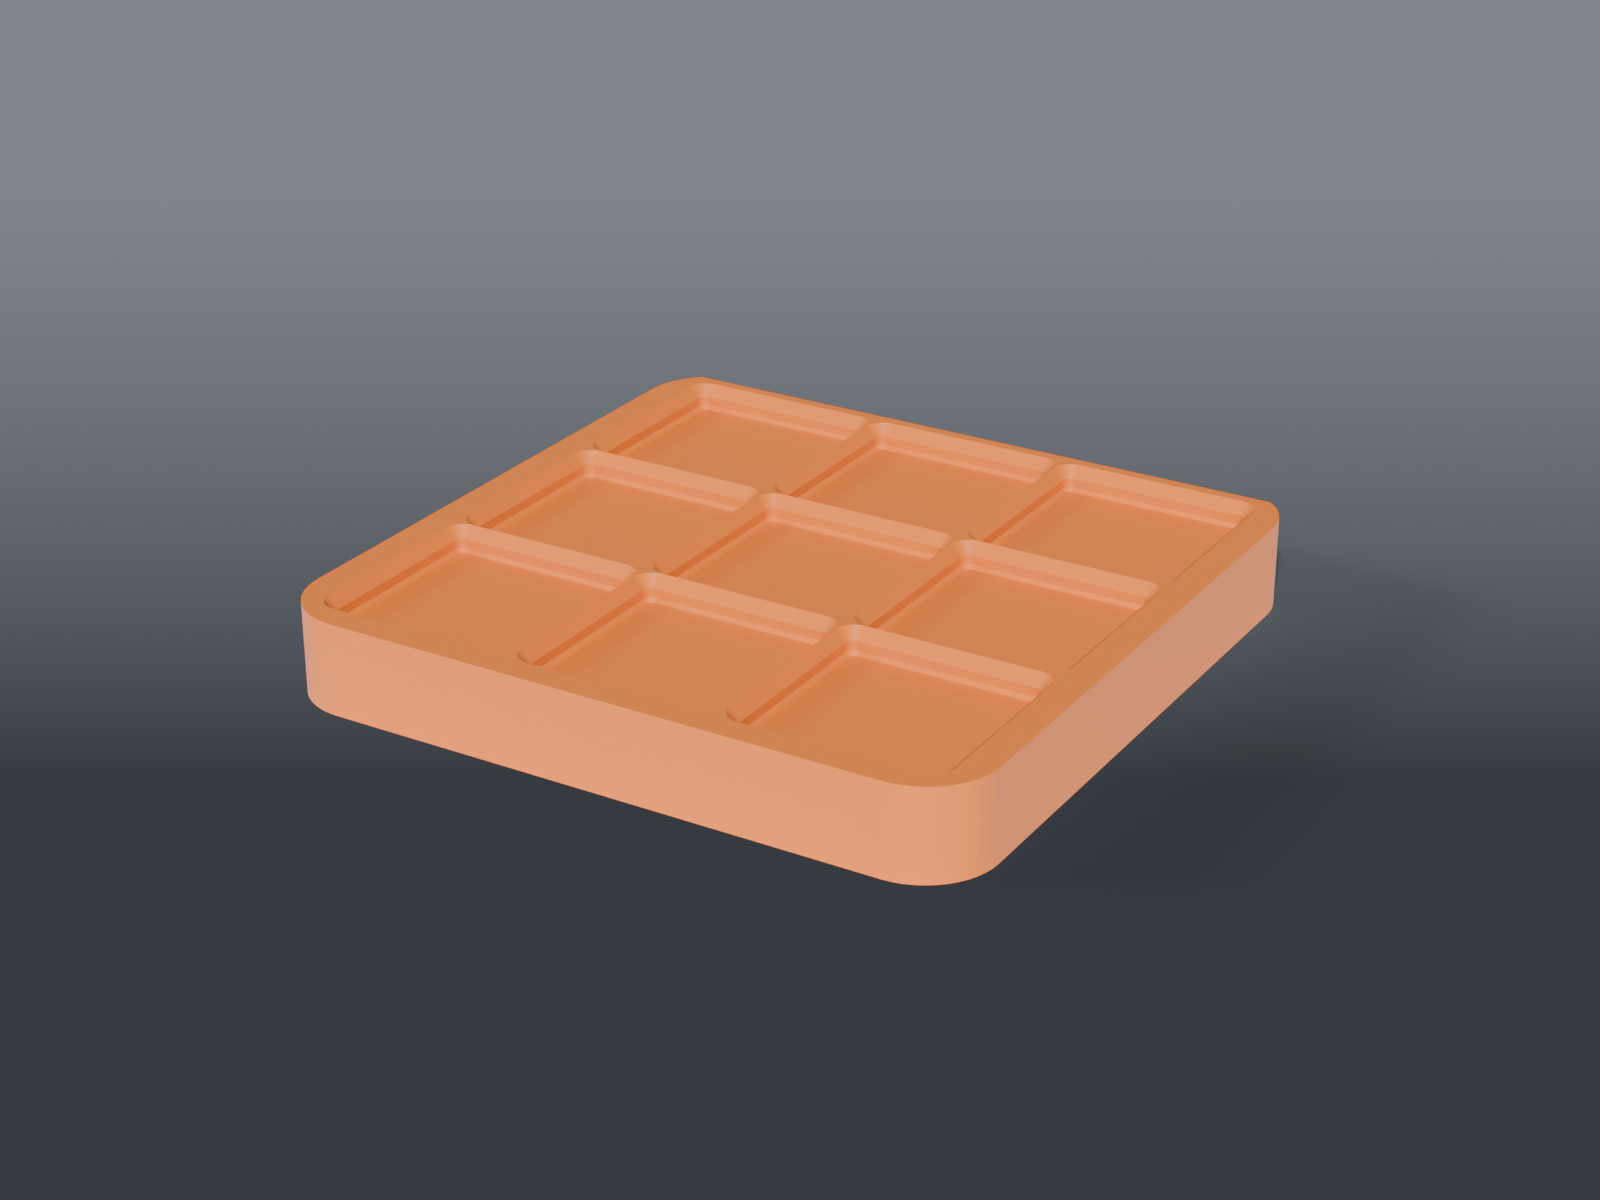
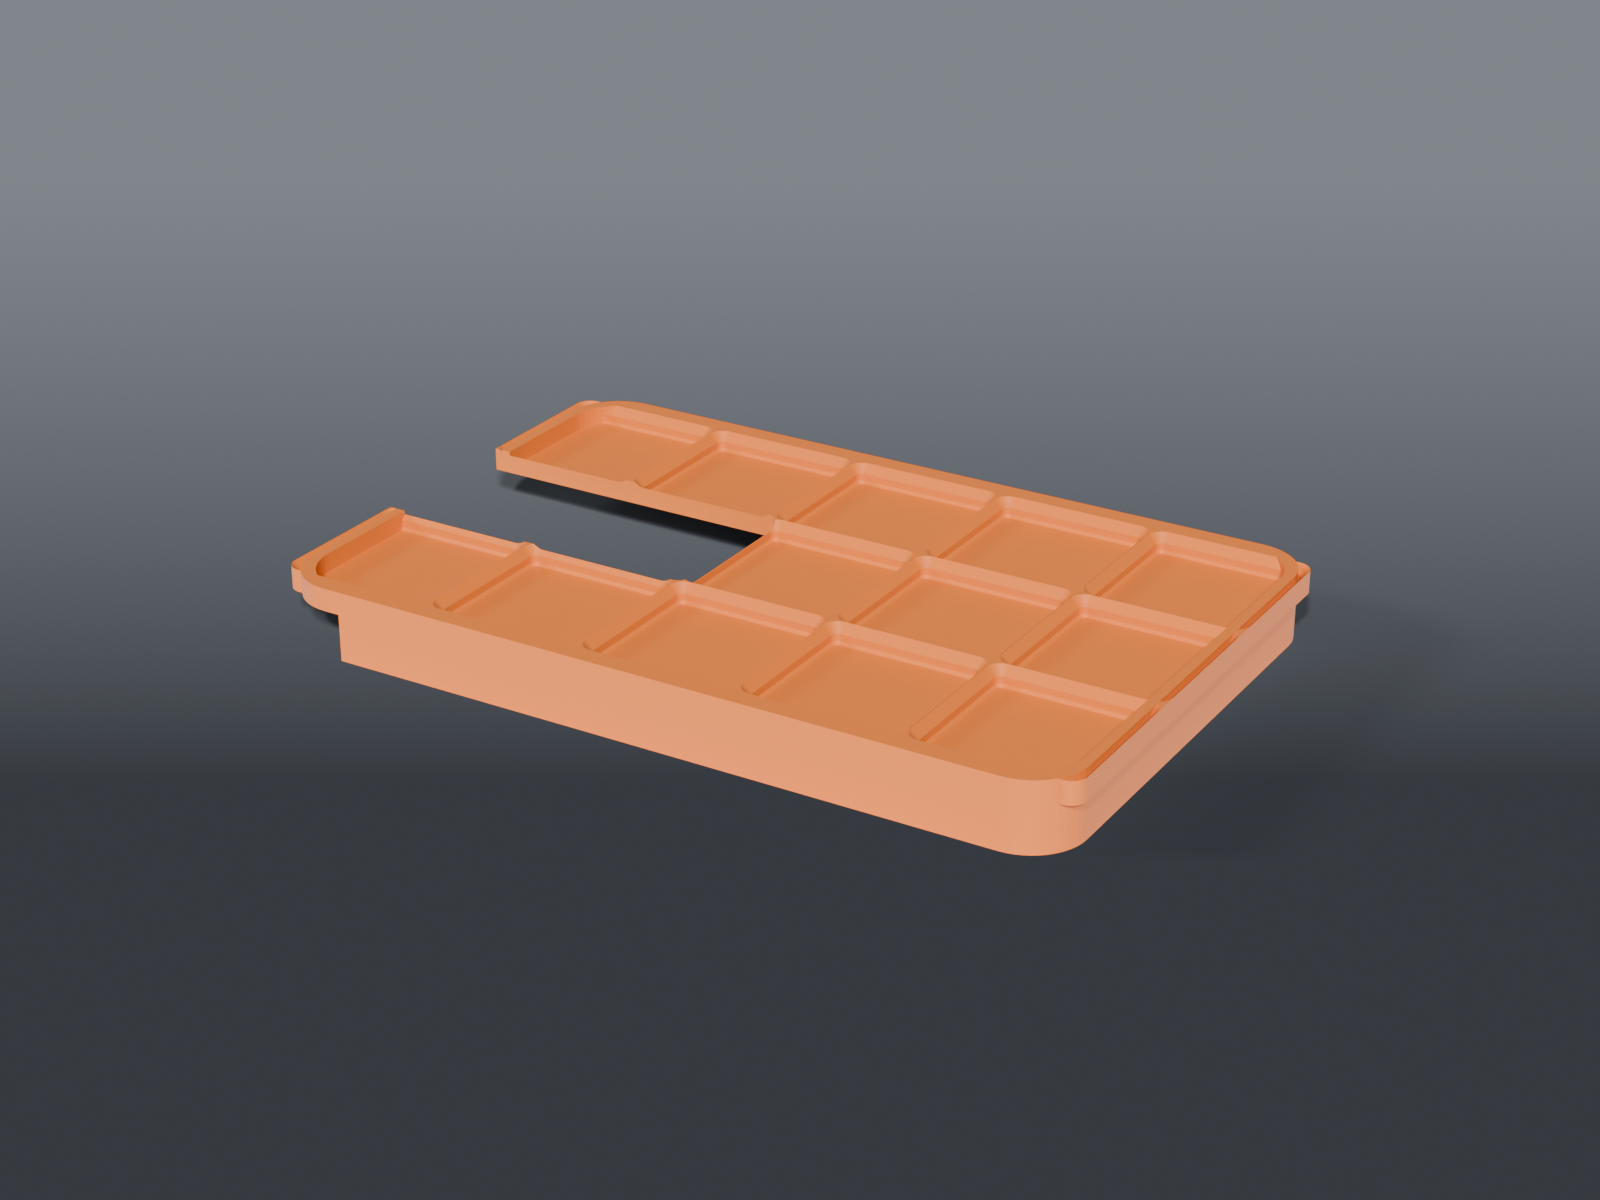
feat(scope-baseplate): rebuild as 5x3 wrapping the pole, 13 usable cells

Changed region(s): [[0.1562, 0.3083, 0.8438, 0.74], [0.4688, 0.4933, 0.5625, 0.555]]

diff --git a/scope-baseplate/README.md b/scope-baseplate/README.md
@@ -2,7 +2,7 @@
 
 ![Microscope base platform baseplate](preview.png)
 
-A **3×3 Gridfinity baseplate** that drops onto the raised platform of a microscope boom stand's weighted base, reclaiming that dead footprint for storage — mainly a home for the Kimwipe box that already lives there. A skirt wraps the platform on three sides so it can't slide; the back is open where the boom pole comes up.
+A **5×3 Gridfinity baseplate** that wraps the raised plateau on a microscope boom stand's weighted base, clears the boom pole, and turns that dead footprint into **13 usable cells**. Mainly a home for the Kimwipe box that already lives there, plus everything that used to get set down beside it.
 
 > **Not the oscilloscope.** That one is [`bench-instrument-risers/`](../bench-instrument-risers/). This is the *microscope* boom base.
 
@@ -10,29 +10,72 @@ A **3×3 Gridfinity baseplate** that drops onto the raised platform of a microsc
 
 | Part | File | Size | Print |
 |---|---|---|---|
-| **Baseplate** | `scope_wipe_plate.scad` | 138 × 133.6 × 17.9 mm | ×1 — grid up, **with supports** |
-| **Corner gauge** | `coupons/scope_corner_gauge.scad` | 192 × 94 × 3 mm | optional — only if your platform differs |
+| **Baseplate** | `scope_wipe_plate.scad` | 210 × 136.38 × 17.85 mm | ×1 — **grid down**, no supports |
+| **Wrap coupon** | `coupons/scope_wrap_coupon.scad` | 21 × 136.38 × 17.85 mm | **print first** — ~9 g |
+| **Corner gauge** | `coupons/scope_corner_gauge.scad` | 192 × 94 × 3 mm | only if your stand differs |
 
-Shared dimensions live in `scope_plate_common.scad`.
+Dimensions live in `scope_plate_common.scad`.
+
+## This is a rebuild
+
+The previous version was a 3×3 with a skirt open at the back for the pole. Both premises were wrong, and the printed part was unusable:
+
+- **The pole doesn't rise at the back edge.** It rises from a boss about a fifth of the way in from one end. A plate that opens toward the back never reaches it.
+- **131.84 wasn't the plateau's length.** It was a short reading of the same plateau — 200.03 is the real number. The width was right both times; 130.54 and 130.18 are the same edge measured twice.
+
+Nothing carried over but the Gridfinity pitch and the gauged corner radius.
 
 ## How it mounts
 
-No hardware. The skirt drops 12 mm down the platform's 17.76 mm step and hugs it on the front and both sides; gravity and the three-sided wrap do the rest. The back is open so the boom pole passes through, and the plate stops exactly at the platform's back edge rather than growing into the pole.
+No hardware. The skirt drops 12 mm down the plateau's 17.76 mm step and hugs it on **both long sides and the far end**. **Slide it on lengthwise from the near end**, pole passing up through the slot, until the far wall bears against the plateau's far edge — that's the stop, and it lands within 0.6 mm of designed.
+
+The near end is open on purpose. Anything hanging down across it would hit the plateau's edge and stop the plate 12 mm short. It's also what lets you fit the plate without pulling the microscope head off the pole.
+
+The near end is the one **41.28 mm** from the boss centre, not the 158.75 mm end.
+
+## Why five rows, hanging over the ends
+
+5 × 42 = 210 against a 200.03 mm plateau, so the plate hangs about 5 mm past each end. That's deliberate:
+
+| Layout | Cells | Lost to the pole | Usable |
+|---|---|---|---|
+| 4 rows, slid to align the boss | 12 | 1 | 11 |
+| **5 rows, overhanging** | **15** | **2** | **13** |
+
+Four rows leaves 32 mm of slack, enough to slide a row *centre* onto the boss so it only eats one cell. Five rows can't — every offset in the valid range straddles a boundary, so the pole costs two. You still come out two cells ahead, and the 32 mm of dead border stops existing.
+
+**The overhang is plate, not bin.** Every socket stays a full 42 mm, so bins seat normally. What cantilevers is ~5 mm of plate per end, and the skirt hangs *inboard* of the tips, under the cells — so the wrap costs nothing.
+
+## Print the coupon first
+
+`coupons/scope_wrap_coupon.scad` is a 22 mm band sliced off the far end of the real plate — both side walls at true spacing, the far end wall, both corners. **~9 g against the plate's ~50 g.**
+
+It's an `intersection()` against the actual model, not a re-derivation, so it can't drift from the part it stands in for.
+
+| What it does | What it means |
+|---|---|
+| Drops on, sits flat, no rock | `FIT` and `CORNER` are right — print the plate |
+| Binds on the flats | `FIT` too small |
+| Flats seat, corners hang up | `CORNER` too big |
+| Rocks, or the wall bottoms out before the plate is flat | The step is shallower than 17.76 |
+| Rattles | `FIT` too large |
+
+One wall tells you nothing about the width — 0.6 mm a side over 130 mm is exactly what PETG shrink eats, and you need both walls at true spacing to see it. Print it in the same material as the plate for that reason.
+
+It doesn't test the pole slot or the boss position. Those live at the other end.
 
 ## Fit
 
-Measured on the actual stand:
-
 | Dimension | Value | How |
 |---|---|---|
-| Platform | 131.84 × 130.54 mm | calipers |
+| Plateau | 200.03 × 130.18 mm (7⅞ × 5⅛") | tape |
 | Step height | 17.76 mm | calipers — sets the 12 mm skirt depth |
 | Corner radius | ~15 mm | **gauged**, not calipered |
-| Kimwipe box | 119.60 × 122.86 mm | fits the 3×3 |
+| Boss ⌀ | 39.78 mm | calipers |
+| Boss from the far end | 158.75 mm (6¼") | tape |
+| Boss across the width | **assumed centred** | ⚠ see below |
 
-**The corner radius came from a gauge, because calipers can't read a fillet.** `coupons/scope_corner_gauge.scad` prints eight female corners from 6 to 20 mm; gauges 5 (14 mm) and 6 (16 mm) both seated.
-
-`CORNER` is set to **14, not the midpoint 15** — the error is asymmetric. A larger `CORNER` rounds the skirt opening more, making it *smaller* at the corners, so it binds:
+**`CORNER` is 14, not the midpoint 15** — the error is asymmetric. A larger `CORNER` rounds the skirt opening more, making it *smaller* at the corners, so it binds:
 
 | `CORNER` | real R=14 | R=15 | R=16 |
 |---|---|---|---|
@@ -40,11 +83,28 @@ Measured on the actual stand:
 | 15 | **binds** | clears | clears |
 | 16 | **binds** | **binds** | clears |
 
-Taking the smaller gauge that seated clears the whole measured range, so no finer gauge is needed.
+`FIT` is **1.2 mm**, deliberately not 0.4 — that's the clearance that failed on the OWON tray frame over a similar span. PETG shrinks ~0.5 mm across 130 mm, so an internal dimension prints undersize and binds.
 
-`FIT` is **1.2 mm**, deliberately not 0.4 — that's the same clearance over the same ~131 mm span that failed on the OWON tray frame. PETG shrinks ~0.5 mm across 131 mm, so an internal dimension prints undersize and binds.
+**The boss position across the width is an assumption.** The tape read 92.08 mm (3⅝") from one long edge, which is 27 mm off-centre on a 130.18 mm width and doesn't reconcile with the eyeball "it looks centred". Centred is the working assumption.
 
-If your stand differs, the knobs at the top of `scope_plate_common.scad` cover it: `PLAT_W`, `PLAT_D`, `STEP_H`, `CORNER`, `FIT`.
+If it's off-centre, the slot moves and two more cells die — 13 drops to 11. The width has only 4.18 mm of slack, so unlike the length there's no sliding out of it. Set `BOSS_Y` and everything else follows. To settle it: caliper from the boss edge to each side of the 5⅛" face, and see whether the two numbers match.
+
+## Why the pole slot is 44 mm wide
+
+Not fit — manifoldness. The cell pitch is 42 and the boss is 39.78, so any "natural" slot width lands within a millimetre of a socket boundary, and at the plate's top face adjacent socket openings meet exactly at ±21. A cut plane tangent to that line is the same class of bug that put 96 non-manifold edges in the thermal mount's counterbore.
+
+44 clears the whole middle column and passes 1 mm into the neighbouring sockets' outer taper — comfortably off every boundary. It costs a 1 mm nick in one wall of the two cells either side, which is cosmetic: Gridfinity retention is perimeter-wide.
+
+## Verified
+
+Measured on the rendered mesh, not asserted:
+
+- **13 cells** at ≥91% of an intact cell's material; the two dead ones are the middle column, rows 1–2
+- **Single connected body** — 1 component, not a plate and a loose ring
+- **Boss passes clean through** — zero intersection with a 39.78 cylinder at the boss position
+- **Slides on** — a plateau solid swept the full insertion path, 14 positions, no contact until seated
+- **Seats and stops** — clear at 0 mm, bears on the far wall at +1 mm
+- Clean on **OpenSCAD 2021.01** (what CI runs) as well as current builds
 
 ## Source
 
@@ -52,20 +112,17 @@ If your stand differs, the knobs at the top of `scope_plate_common.scad` cover i
 openscad -o scope_wipe_plate.stl --export-format binstl scope_wipe_plate.scad
 ```
 
-`$fn` must be **≥ 60**. The border ring's inner boundary and the baseplate's outer boundary are rounded rects 1 mm apart with the same corner radius, so their arcs run nearly parallel; below 60 segments the facet vertices stitch into sub-micron sliver triangles and the mesh validator rejects the part. Swept 48–128: fails at 48 and 56, clean from 60 up. The file sets 96.
-
 ## Recommended print settings
 
 | Setting | Value |
 |---|---|
-| Material | PETG or PLA — carries no load and isn't a spring |
-| Orientation | Flat, grid up, as exported |
+| Material | PETG |
 | Layer height | 0.2 mm |
-| Walls | 3+ |
-| Infill | 15 % |
-| Supports | **Yes for `scope_wipe_plate`** — the gauge needs none |
+| Walls | 3 |
+| Infill | 15% grid |
+| Supports | **None** |
+| Orientation | **Grid face down**, skirt walls up |
 
-> **The supports line was wrong until 2026-08-19** — this README said "no supports" and it was
-> corrected off an actual slicing pass, not from reading the model. Grid up puts the skirt's
-> inner face over air. Slice it and look before you trust a print-settings table; that table is
-> a claim, and this one had never been checked against a slicer.
+Print it **upside down**. Grid up puts a 200 × 130 flat ceiling 12 mm in the air inside the skirt — the pathological support case. Flipped, the plate lies on the bed, the skirt walls print as plain vertical walls, and the socket chamfers are all self-supporting. No supports at all.
+
+210 × 136.38 fits the 270 mm bed with room to spare.

diff --git a/README.md b/README.md
@@ -21,7 +21,7 @@ A collection of 3D-printable models authored as **OpenSCAD source**. STLs are re
 | <img src="syringe-holders/preview.png" width="150"> | [**Syringe holders**](syringe-holders/) | Gridfinity rack for rework syringes — two 30 cc flux barrels behind four 10 cc, vertical bores, no supports. |
 | <img src="instrument-holders/preview.png" width="150"> | [**Instrument holders**](instrument-holders/) | Gridfinity docks and kit bins for a DSLogic Plus, XGecu T48 and FNIRSI LCR-P1. Docks, not storage — USB leads stay run to the computer through rear notches, and the DSLogic's front opens so its probe ports stay reachable. |
 | <img src="uv-mask-station/preview.png" width="150"> | [**UV mask station**](uv-mask-station/) | Deep-bore opaque rack + slip-over cap for UV-curable solder mask, plus a head-down cup for the 365 nm lamp. Print the rack and cap opaque — ambient light skins the mask. |
-| <img src="scope-baseplate/preview.png" width="150"> | [**Microscope base platform baseplate**](scope-baseplate/) | 3×3 Gridfinity baseplate that drops onto a microscope boom stand's weighted base, reclaiming that footprint for storage. Three-sided skirt, open at the back for the pole. Includes a print-first corner-radius gauge. |
+| <img src="scope-baseplate/preview.png" width="150"> | [**Microscope base platform baseplate**](scope-baseplate/) | 5×3 Gridfinity baseplate that wraps the raised plateau on a microscope boom stand's weighted base and clears the boom pole, reclaiming that footprint as 13 usable cells. Slides on lengthwise past the pole. Includes a print-first wrap coupon and a corner-radius gauge. |
 | <img src="bench-instrument-risers/preview.png" width="150"> | [**Bench instrument risers**](bench-instrument-risers/) | Gridfinity-footed pedestals that lift an oscilloscope (4″) and a hot air station (8″) off the desk, turning their footprints back into open grid. Hollow 1.6 mm shell, retaining lip instead of a foot pocket, so every pedestal is interchangeable. |
 | <img src="gridfinity-fillers/preview.png" width="150"> | [**Gridfinity filler tiles**](gridfinity-fillers/) | Flat lids that turn empty grid into a working surface — mouse, drink, wrist rest. 1×1 to 6×6, in flat / coaster / mousepad tops. Corner feet only, so a 6×6 lifts out with 5 kgf instead of 45. |
 
